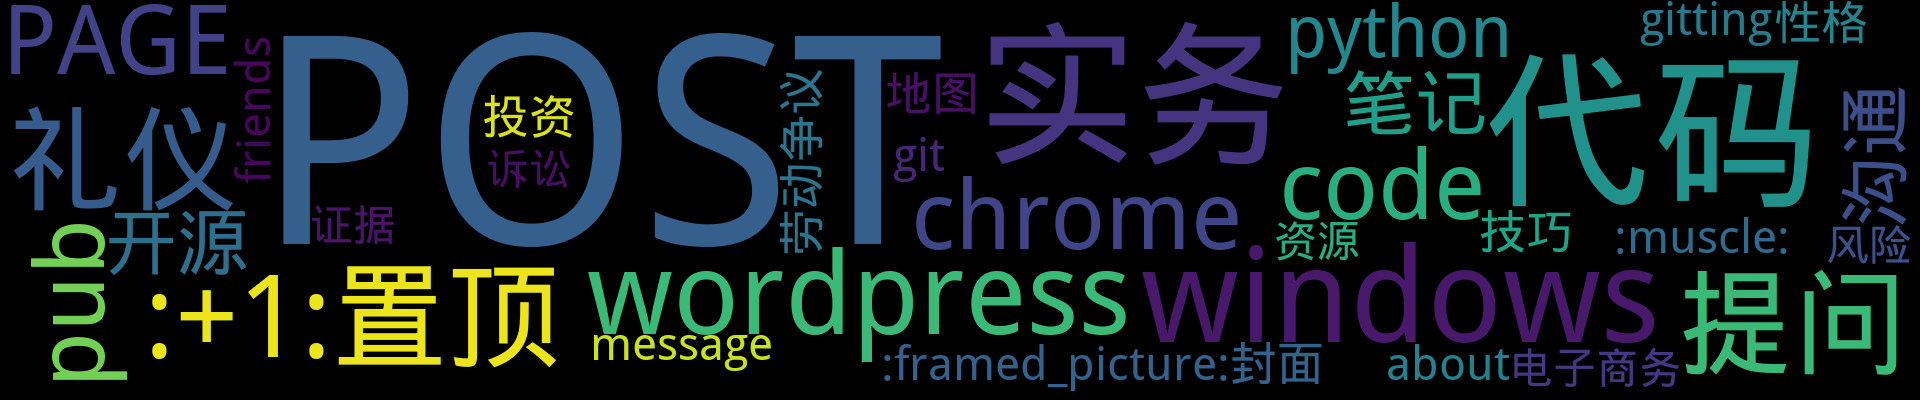
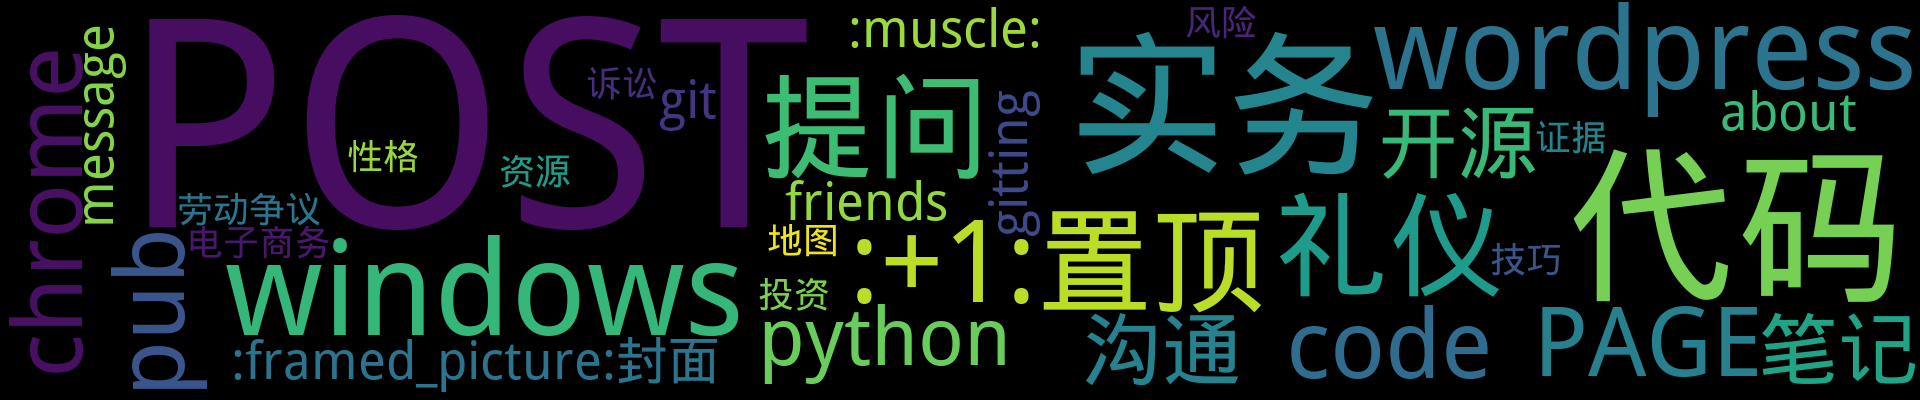
Update from Github Action

diff --git a/README.md b/README.md
@@ -19,7 +19,7 @@
 <p align='center'>
     <img src="https://badgen.net/badge/labels/39"/>
     <img src="https://badgen.net/github/issues/fydy/elaw"/>
-    <img src="https://badgen.net/badge/last-commit/2020-04-09 04:10:20"/>
+    <img src="https://badgen.net/badge/last-commit/2020-04-15 02:00:49"/>
     <img src="https://badgen.net/github/forks/fydy/elaw"/>
     <img src="https://badgen.net/github/stars/fydy/elaw"/>
     <img src="https://badgen.net/github/watchers/fydy/elaw"/>
@@ -54,6 +54,19 @@ is
 - [简单生活](https://github.com/fydy/elaw/issues/36)  <sup>0 :speech_balloon:</sup>  	 
 - [提问的智慧](https://github.com/fydy/elaw/issues/19)  <sup>0 :speech_balloon:</sup>  	 
 ## 最新 :new: 
+
+#### [互联网电子数据证据举证、认证规程(试行)](https://github.com/fydy/elaw/issues/56) <sup>0 :speech_balloon:</sup> 	 2020-04-15 02:00:03
+
+:label: : [POST](https://github.com/fydy/isblog/labels/POST)
+
+为规范诉讼参与人和法官在民商事诉讼过程中运用互联网电子数据证据的举证、质证和认证行为，根据《中华人民共和国民事诉讼法》《中华人民共和国电子签名法》《最高人民法院关于适用<中华人民共和国民事诉讼法>的解释》《最高人民法院关于民事诉讼证据的若干规定》等法律规定，制定本规程。
+
+第一条  本规程所称互
+
+[更多>>>](https://github.com/fydy/elaw/issues/56)
+
+---
+
 
 #### [Windows 如何快速批量提取文件名](https://github.com/fydy/elaw/issues/55) <sup>0 :speech_balloon:</sup> 	 2020-04-07 08:09:24
 
@@ -124,17 +137,6 @@ chattr -R -a mulu
 ---
 
 
-#### [民事诉讼流程](https://github.com/fydy/elaw/issues/51) <sup>0 :speech_balloon:</sup> 	 2020-03-06 04:57:13
-
-:label: : [POST](https://github.com/fydy/isblog/labels/POST)
-
-为了能够让更多的当事人了解民事案件诉讼流程及执行相关问题，根据最新的法律法规及其司法解释，编制《民事诉讼流程及执行宝典》。第一步：立案前的准备工作一、固定证据和准备证据（1）身份证明能够证明原告、被告的身份信息，不同的案件提供的信息不一样，个人的一般包括身份证、暂住证或居住证、户口本、出生证明、亲属
-
-[更多>>>](https://github.com/fydy/elaw/issues/51)
-
----
-
-
 ## 分类  :card_file_box: 
 
 <details close="close">
@@ -201,8 +203,9 @@ chattr -R -a mulu
 </details>
 
 <details>
-<summary>POST	<sup>44:newspaper:</sup></summary>
+<summary>POST	<sup>45:newspaper:</sup></summary>
 
+- [互联网电子数据证据举证、认证规程(试行)](https://github.com/fydy/elaw/issues/56)  <sup>0 :speech_balloon:</sup>  	 
 - [将DOC、RTF格式文件批量转为TXT格式文件](https://github.com/fydy/elaw/issues/54)  <sup>0 :speech_balloon:</sup>  	 
 - [pip超时的问题](https://github.com/fydy/elaw/issues/53)  <sup>0 :speech_balloon:</sup>  	 
 - [linux目录权限只能写入不能删除](https://github.com/fydy/elaw/issues/52)  <sup>0 :speech_balloon:</sup>  	 
